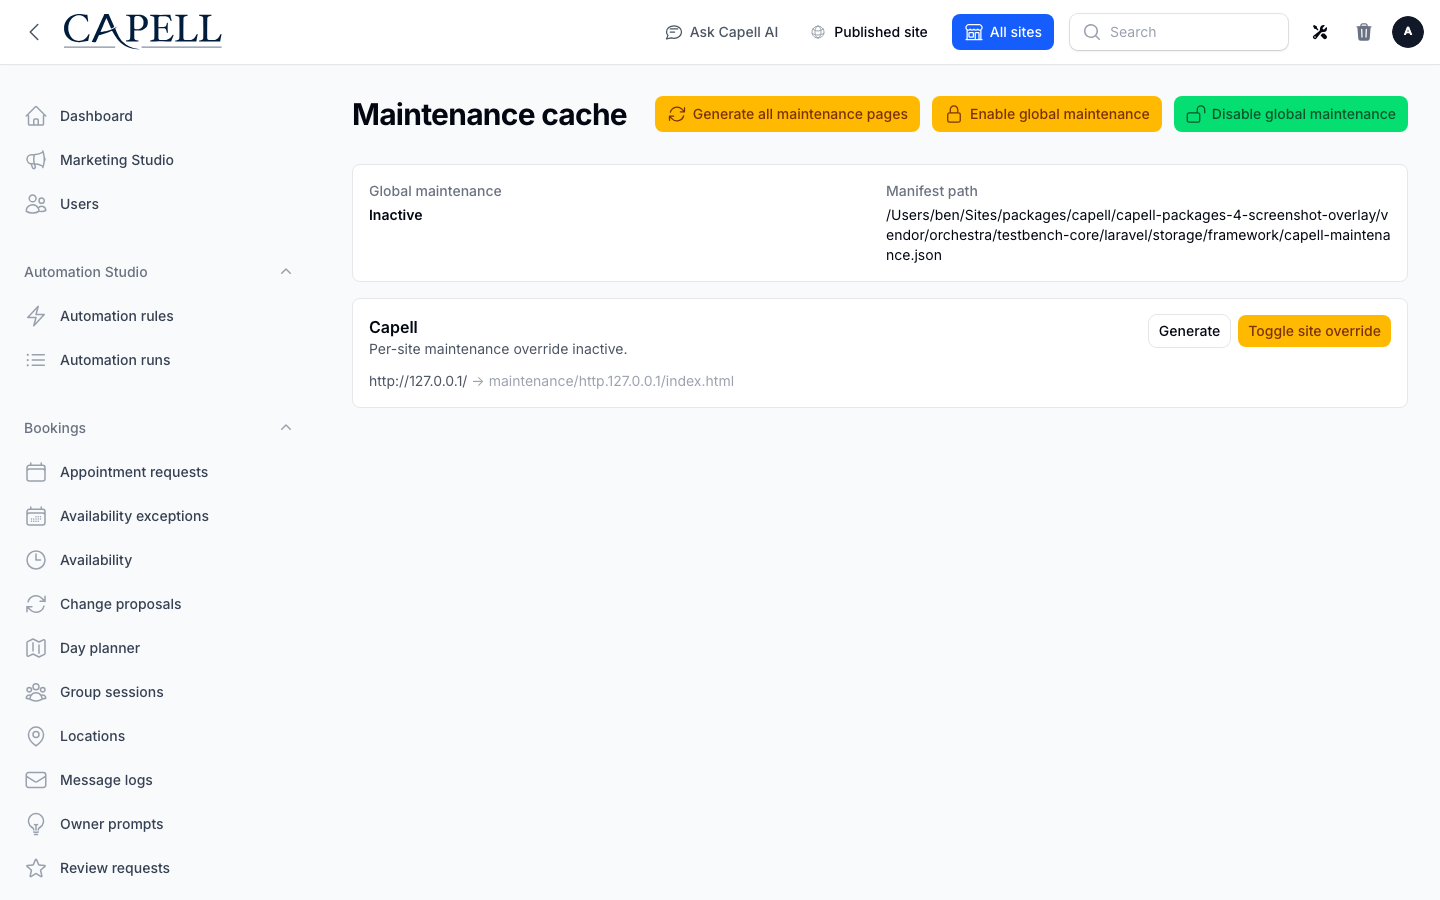
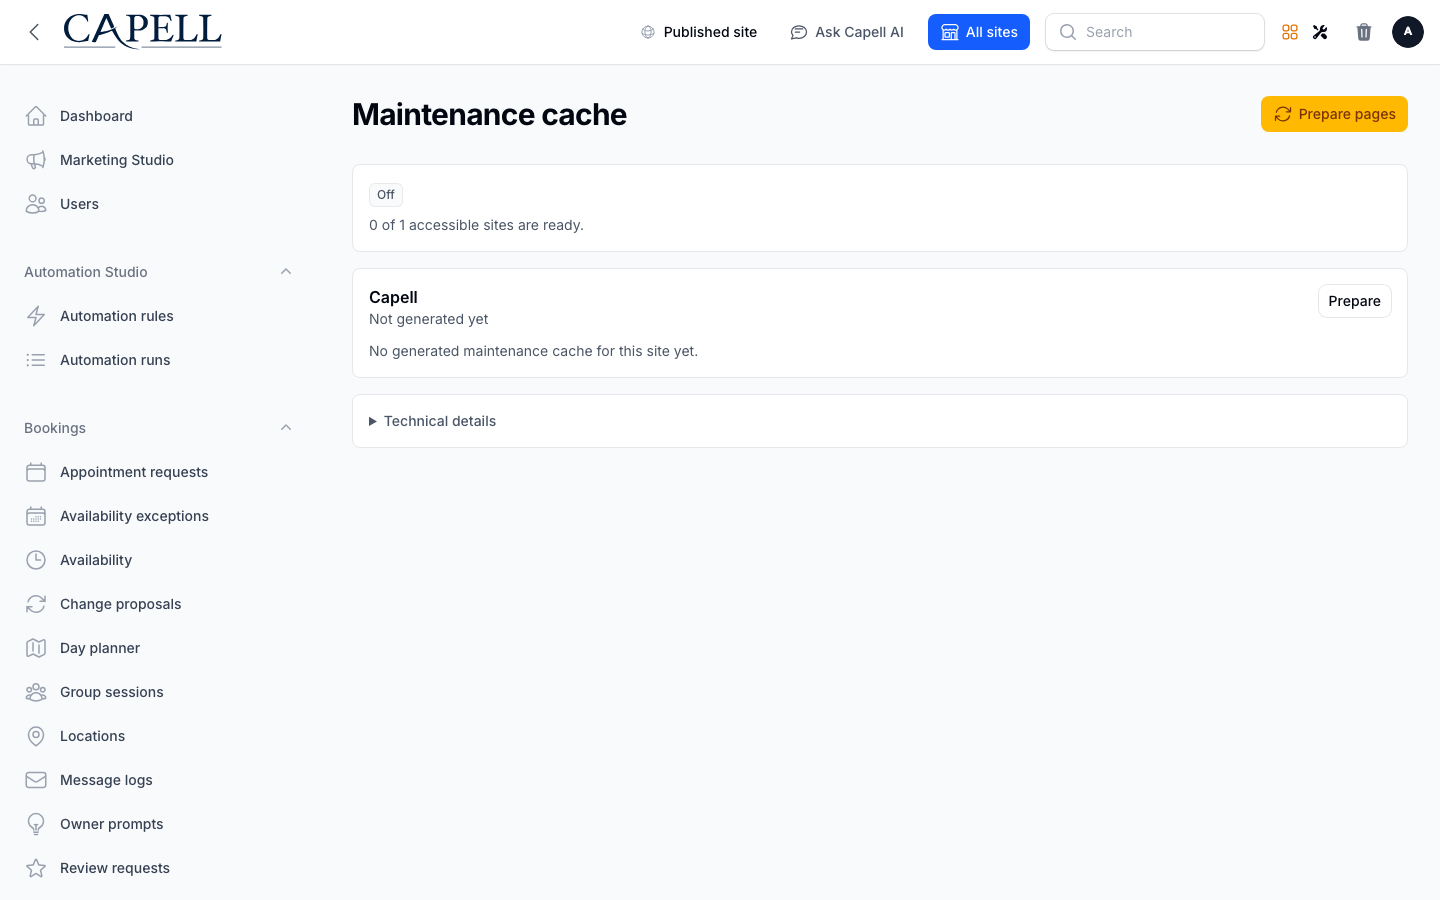
Release v1.0.45

diff --git a/README.md b/README.md
@@ -10,12 +10,6 @@ Full-page static HTML cache for Capell with dependency-indexed invalidation, sch
 
 Administrators inspect coverage, dependency maps, and stale work, then clear, warm, or regenerate cached pages. Anonymous visitors receive cached public HTML without authoring markers or session cookies.
 
-Cache invalidation preserves dependency tracking until every existing page artefact has been removed. Missing files are harmless; inaccessible directories and failed deletions raise an error so the same URL can be retried. Safety diagnostics report an incomplete inspection when a directory cannot be enumerated.
-
-`capell:html-cache:process-stale` and `capell:html-cache:clear --process` report attempted, refreshed, failed, deferred and not-applicable counts, and return a nonzero exit code when any attempted refresh fails. Failed refreshes retain their old HTML and retry state. `ProcessStaleHtmlCacheAction::run()` returns these counts in `StaleHtmlCacheProcessResultData`; callers should check `successful()` before reporting completion. External static generation requires a confirmed HTTP 200 response for every required URL, including URLs supplied by extensions.
-
-Evidence: [`capell.json`](capell.json), [`src/Http/Middleware/HtmlCacheMiddleware.php`](src/Http/Middleware/HtmlCacheMiddleware.php), [`src/Models/CachedModelUrl.php`](src/Models/CachedModelUrl.php), [`src/Models/StaleCachedUrl.php`](src/Models/StaleCachedUrl.php), [`docs/overview.admin.md`](docs/overview.admin.md), [`docs/screenshots.json`](docs/screenshots.json), [`src/Filament/Pages/MaintenanceCachePage.php`](src/Filament/Pages/MaintenanceCachePage.php), [`tests/Feature/HtmlCacheMiddlewareTest.php`](tests/Feature/HtmlCacheMiddlewareTest.php).
-
 Status details:
 
 - Status: Available
@@ -31,8 +25,6 @@ Status details:
 
 **For teams:** Teams can see whether important URLs are cached, recover from stale output, and diagnose unsupported node-local multi-node deployments without weakening the rule that admin and authoring details stay out of public files.
 
-Evidence: [`src/Actions/RecordCachedModelUrlsAction.php`](src/Actions/RecordCachedModelUrlsAction.php), [`src/Actions/MarkCachedUrlsForModelStaleAction.php`](src/Actions/MarkCachedUrlsForModelStaleAction.php), [`src/Actions/RefreshCachedUrlAtomicallyAction.php`](src/Actions/RefreshCachedUrlAtomicallyAction.php), [`tests/Feature/StaleCachedUrlsTest.php`](tests/Feature/StaleCachedUrlsTest.php), [`docs/admin-guide.md`](docs/admin-guide.md), [`docs/cache-invalidation.md`](docs/cache-invalidation.md), [`src/Health/HtmlCacheHealthCheck.php`](src/Health/HtmlCacheHealthCheck.php), [`src/Actions/BuildHtmlCacheEligibilityReportAction.php`](src/Actions/BuildHtmlCacheEligibilityReportAction.php), [`src/Actions/BuildHtmlCachePublicOutputSafetyDiagnosticsAction.php`](src/Actions/BuildHtmlCachePublicOutputSafetyDiagnosticsAction.php), [`tests/Feature/ExtensionCacheSafetyTest.php`](tests/Feature/ExtensionCacheSafetyTest.php).
-
 ## Screens And Workflow
 
 Screenshot contract: `docs/screenshots.json`.
@@ -47,7 +39,7 @@ Screenshot contract: `docs/screenshots.json`.
 - HTML Cache site health cache map (admin, supplementary evidence).
 - Page table cache indicator (admin, supplementary evidence).
 - Anonymous public cache hit (frontend, supplementary evidence).
-- Static maintenance page output (frontend, supplementary evidence).
+- Public maintenance page (frontend, supplementary evidence).
 - HTML Cache maintenance cache page with admin sidebar menu open (admin, supplementary evidence).
 
 ## Technical Shape
@@ -104,6 +96,7 @@ Screenshot contract: `docs/screenshots.json`.
 - `BuildCacheMapOverviewAction`
 - `BuildCachedModelUrlDiagnosticsAction`
 - `BuildHtmlCacheEligibilityReportAction`
+- `BuildHtmlCacheOriginDecisionAction`
 - `BuildHtmlCachePublicOutputSafetyDiagnosticsAction`
 - `BuildMaintenanceCacheOverviewAction`
 - `ClaimStaleCachedUrlAction`
@@ -115,12 +108,14 @@ Screenshot contract: `docs/screenshots.json`.
 - `BuildHtmlCacheDashboardStatsAction`
 - `BuildHtmlCacheStaleQueueRowsAction`
 - `BuildHtmlCacheUrlRowsAction`
+- `DeleteCachedUrlArtefactsAction`
 - `DeletePageCacheAction`
 - `DisableGlobalMaintenanceAction`
 - `DisableSiteMaintenanceOverrideAction`
 - `EnableGlobalMaintenanceAction`
 - `EnableSiteMaintenanceOverrideAction`
 - `EnsureHtmlCachePermissionsAction`
+- `ForgetCachedUrlAction`
 - `GenerateStaticSiteAction`
 - `GenerateStaticSitesAction`
 - `InspectEdgeCachePurgeReadinessAction`
@@ -144,6 +139,7 @@ Screenshot contract: `docs/screenshots.json`.
 - `ResolveCachedUrlsForModelAction`
 - `ResolveCachedUrlsForSurrogateKeysAction`
 - `ResolveEdgeCacheTagsAction`
+- `RetireCachedUrlAction`
 - `ScheduleOriginStaleCachedUrlRefreshAction`
 - `SelectStaleHtmlCacheCandidatesAction`
 - `WriteRefreshedHtmlCacheFileAction`
@@ -159,9 +155,11 @@ Screenshot contract: `docs/screenshots.json`.
 - `HtmlCacheClearResult`
 - `HtmlCacheEligibilityReportData`
 - `HtmlCacheHitBatchData`
+- `HtmlCacheOriginDecisionData`
 - `MaintenanceCacheDomainData`
 - `MaintenanceCacheOverviewData`
 - `MaintenanceSiteStatusData`
+- `StaleHtmlCacheProcessResultData`
 
 ### Jobs
 
@@ -257,7 +255,7 @@ Screenshot contract: `docs/screenshots.json`.
 ## Quick Start
 
 1. Install the package: `composer require capell-app/html-cache`.
-2. Open the package admin surface at `/html-cache/maintenance-cache` and confirm HTML Cache is available.
+2. Open the package admin surface at `/admin/html-cache/maintenance-cache` and confirm HTML Cache is available.
 
 ## Next Steps
 
@@ -273,6 +271,5 @@ Screenshot contract: `docs/screenshots.json`.
 - [Capell documentation design system](../../docs/DESIGN_SYSTEM.md)
 - [Capell and package ERD notes](../../docs/erd/capell-and-package-erds.md)
 - Related packages: [Discovery Foundation](../discovery-foundation/README.md), [Site Discovery](../site-discovery/README.md).
-- Focused tests: `vendor/bin/pest packages/html-cache/tests --configuration=phpunit.xml`.
 
 <!-- prettier-ignore-end -->
